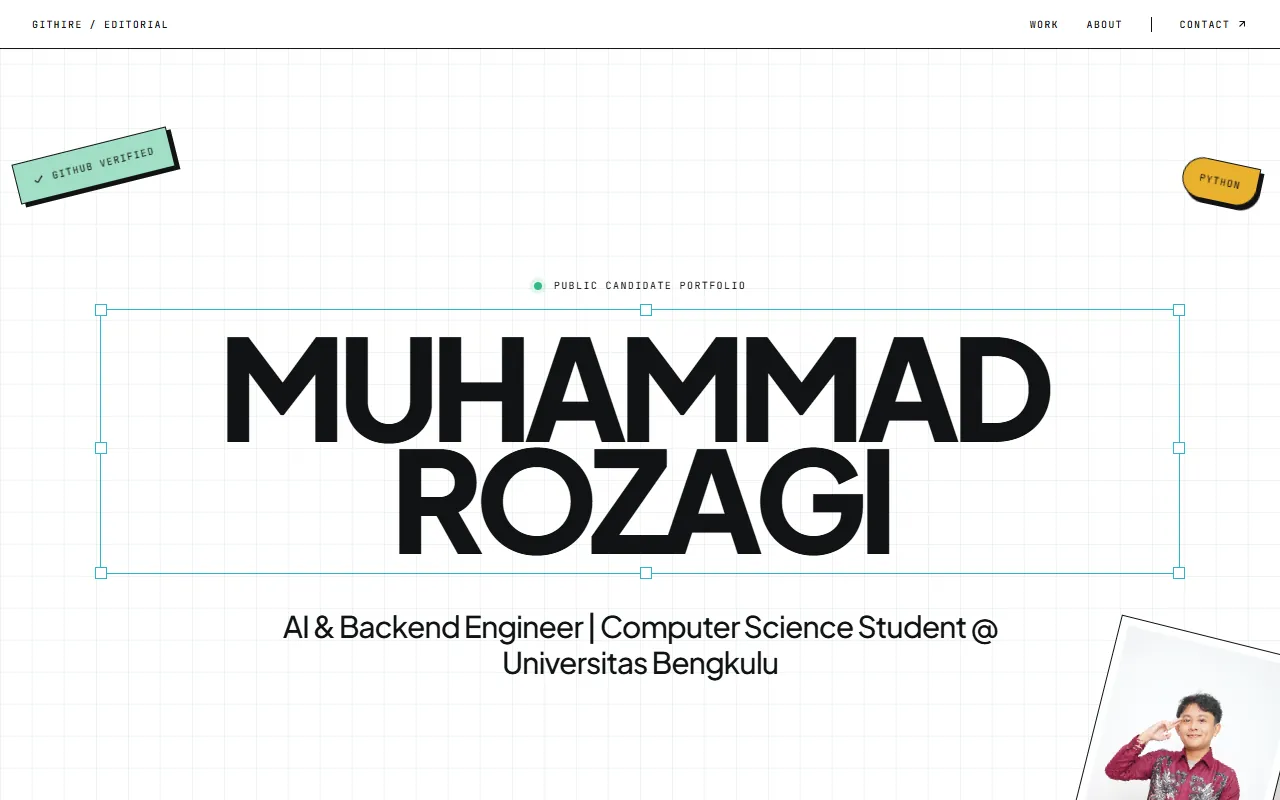
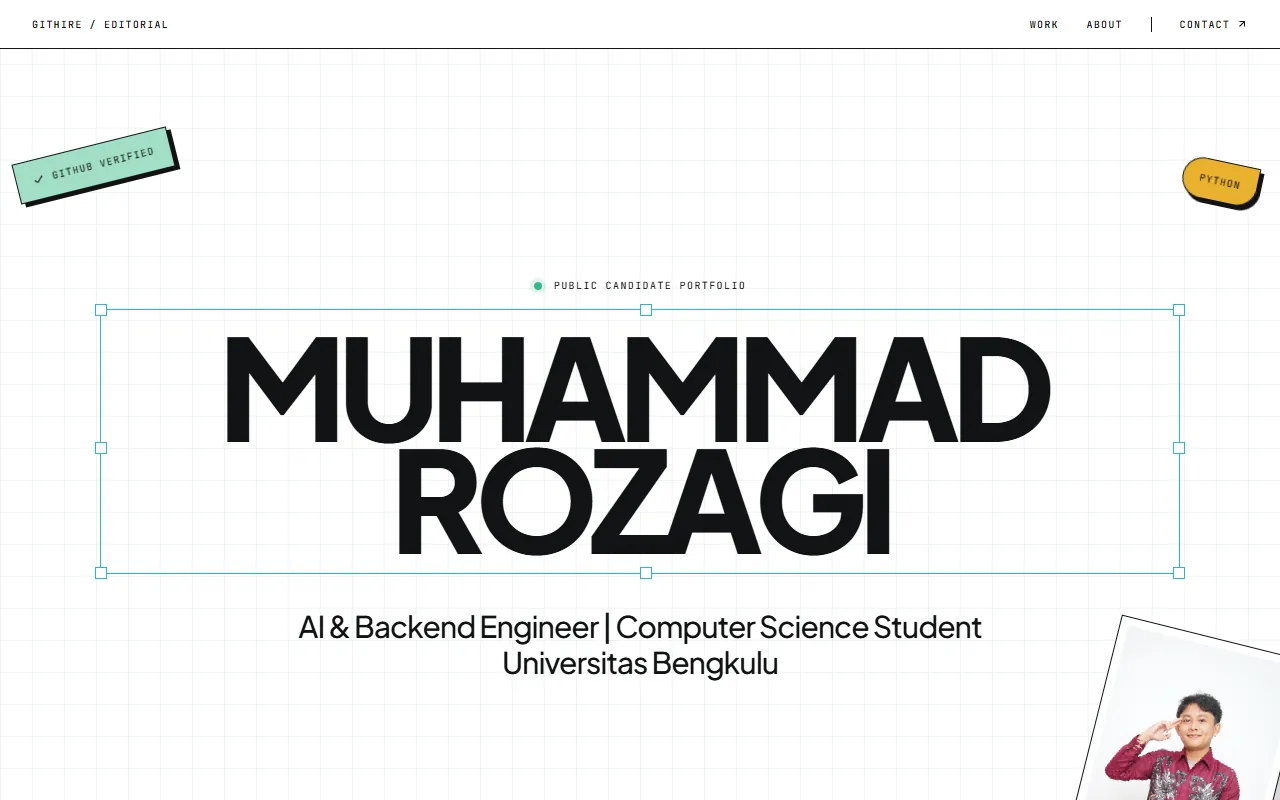
fix(fonts): keep next/font CSS on the root layout
The fonts were re-exported from the @/utils barrel, which hundreds of
client components import. Next attached the font CSS to whichever
client chunk reached it first, so the root layout lost it and /p and
the dashboard fell back to Times. Import fonts only from app/layout.

Also refresh the landing posters with the current portfolio headline.

Changed region(s): [[0.2188, 0.75, 0.7812, 0.8125]]

diff --git a/linkify/src/utils/index.ts b/linkify/src/utils/index.ts
@@ -4,7 +4,9 @@ import { APP_DOMAIN, APP_HOSTNAMES, APP_NAME } from "./constants/site";
 import { DEFAULT_AVATAR_URL, PAGINATION_LIMIT, COMPANIES, PROCESS } from "./constants/misc";
 import { PLANS, PRICING_FEATURES, WORKSPACE_LIMIT } from "./constants/pricing";
 import { CANDIDATE_NAV_GROUPS, NAV_LINKS } from "./constants/nav-links";
-import { inter, jakarta, jetbrains } from "./constants/fonts";
+// Font sengaja TIDAK diekspor dari barrel ini: banyak komponen client mengimpor "@/utils",
+// dan CSS next/font lalu ditempel ke chunk mereka, bukan ke root layout. Impor dari
+// "@/utils/constants/fonts" (hanya app/layout.tsx).
 
 // functions
 import { cn } from "./functions/cn";
@@ -30,9 +32,6 @@ export {
     CANDIDATE_NAV_GROUPS,
     COMPANIES,
     PROCESS,
-    jakarta,
-    jetbrains,
-    inter,
 
     // functions
     cn,

diff --git a/linkify/src/app/layout.tsx b/linkify/src/app/layout.tsx
@@ -1,7 +1,8 @@
 import { Providers } from "@/components";
 import { AppToastContainer } from "@/components/ui/app-toast";
 import "@/styles/globals.css";
-import { cn, generateMetadata, inter, jakarta, jetbrains } from "@/utils";
+import { cn, generateMetadata } from "@/utils";
+import { inter, jakarta, jetbrains } from "@/utils/constants/fonts";
 
 export const metadata = generateMetadata();
 
